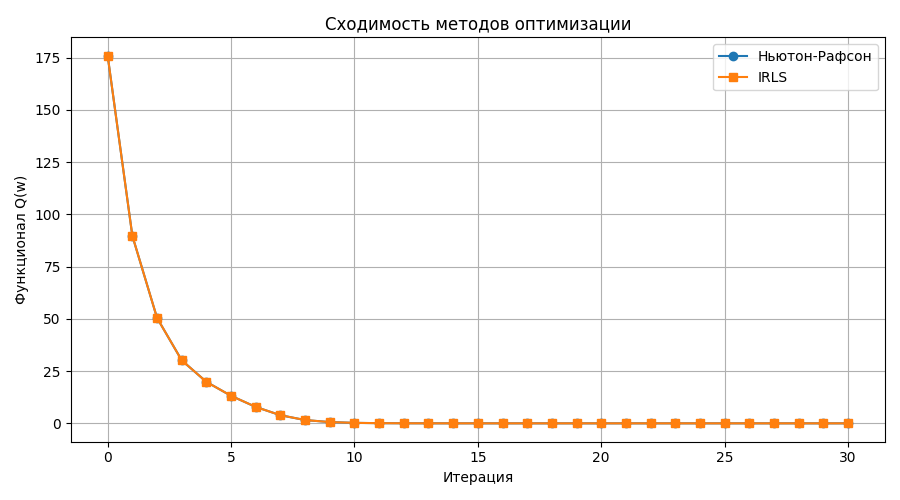
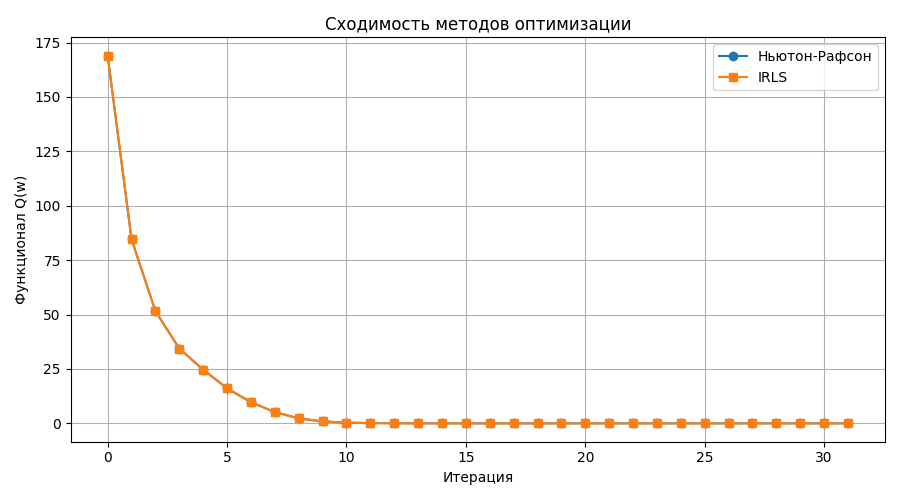
lab5: drop feature standardization, raw lecture F

diff --git a/students/dv-kachanov/lab5/source/main.py b/students/dv-kachanov/lab5/source/main.py
@@ -13,7 +13,6 @@ from sklearn.datasets import load_breast_cancer
 from sklearn.linear_model import LogisticRegression
 from sklearn.metrics import accuracy_score, precision_score, recall_score, f1_score
 from sklearn.model_selection import train_test_split
-from sklearn.preprocessing import StandardScaler
 
 from plots import plot_convergence, plot_probabilities
 
@@ -46,17 +45,13 @@ dataset = load_breast_cancer()
 X = dataset.data
 y01 = dataset.target
 
-X_train_raw, X_test_raw, y01_train, y01_test = train_test_split(
+F_train, F_test, y01_train, y01_test = train_test_split(
     X,
     y01,
     test_size=0.25,
     random_state=42,
     stratify=y01
 )
-
-scaler = StandardScaler()
-F_train = scaler.fit_transform(X_train_raw)
-F_test = scaler.transform(X_test_raw)
 
 # Метки датасета {0, 1} -> нотация лекции {-1, +1} (слайд 20).
 y_tilde_train = to_signed_labels(y01_train)
@@ -90,9 +85,9 @@ plot_convergence(newton_history, irls_history, OUTPUT_DIR / "convergence.png")
 # показать сопоставление с эталонной реализацией;
 
 reference_model = LogisticRegression(C=1.0, solver="lbfgs", tol=1e-8, max_iter=20000)
-reference_model.fit(X_train_raw, y01_train)
+reference_model.fit(F_train, y01_train)
 
-reference_pred = reference_model.predict(X_test_raw)
+reference_pred = reference_model.predict(F_test)
 own_pred = predict01(F_test, w_newton)
 own_pred_irls = predict01(F_test, w_irls)
 

diff --git a/students/dv-kachanov/lab5/README.md b/students/dv-kachanov/lab5/README.md
@@ -75,17 +75,7 @@ y_tilde_i = 2 * y_i - 1 in {-1, +1};
 |F_test| = 143 x 30.
 ```
 
-Разбиение стратифицировано по классам (`test_size=0.25`, `random_state=42`). Матрица данных `F` - это все 30 признаков датасета; bias-столбец и признак `f_0` отсутствуют: в лекции модель задана как `a(x, w) = sign(w^T x)` с `x, w in R^n` (слайд 6), свободного члена в постановке нет.
-
-## Предобработка
-
-Признаки стандартизируются:
-
-```text
-x'_j = (x_j - mean_j) / std_j.
-```
-
-`mean_j` и `std_j` считаются только по обучающей выборке. Затем те же значения применяются к тестовой выборке. Константный столбец НЕ добавляется (см. выше).
+Разбиение стратифицировано по классам (`test_size=0.25`, `random_state=42`). Матрица данных `F` - это все 30 признаков датасета без изменений; bias-столбец и признак `f_0` отсутствуют: в лекции модель задана как `a(x, w) = sign(w^T x)` с `x, w in R^n` (слайд 6), свободного члена в постановке нет. Предобработки признаков нет - в лекции её тоже нет, используется сырая матрица `F`.
 
 ## Логистическая регрессия
 
@@ -219,14 +209,14 @@ w := w + h_t (F_tilde^T F_tilde)^{-1} F_tilde^T y_work, h_t = 1.
 
 ```text
 Шаг h_t (оба метода): 1.0;
-Итераций Ньютона-Рафсона: 30;
-Итераций IRLS: 30;
-Функционал Q(w) (Ньютон-Рафсон): 4.950768591996609e-10;
-Функционал Q(w) (IRLS): 4.950768592003678e-10;
-Макс. отклонение весов: 7.666358214919455e-09.
+Итераций Ньютона-Рафсона: 31;
+Итераций IRLS: 31;
+Функционал Q(w) (Ньютон-Рафсон): 2.6372035110985796e-10;
+Функционал Q(w) (IRLS): 2.6372035108429415e-10;
+Макс. отклонение весов: 1.0303205272066407e-05.
 ```
 
-Начальное значение `Q(w)` (МНК-приближение) равно `175.87302545228815`. Одинаковое число итераций (30) подтверждает, что оба метода реализуют один и тот же шаг в разной записи; отклонение `7.7e-09` - уровень ошибок округления при норме весов около `2868.6` (обучающая выборка оказалась линейно разделимой в постановке без свободного члена и без регуляризации, поэтому веса растут, а `sigma_i -> 1`).
+Начальное значение `Q(w)` (МНК-приближение) равно `168.9620312029392`. Одинаковое число итераций (31) подтверждает, что оба метода реализуют один и тот же шаг в разной записи; отклонение `1.0e-05` - уровень ошибок округления при норме весов около `25664.9` (обучающая выборка оказалась линейно разделимой в постановке без свободного члена и без регуляризации, поэтому веса растут, а `sigma_i -> 1`).
 
 ### График сходимости
 
@@ -245,11 +235,11 @@ sklearn.linear_model.LogisticRegression
 с параметрами `C=1.0`, `tol=1e-8`. Честная оговорка: модели параметризованы по-разному, поэтому сравнение весов/вероятностей некорректно. Эталон оценивает свободный член (`intercept`) и L2-регуляризацию `C=1.0`; собственная реализация следует лекции буквально - свободного члена и регуляризации нет. Сравниваются только предсказания и метрики на тестовой выборке:
 
 ```text
-Доля совпадающих предсказаний (наш Ньютон vs sklearn): 0.916083916083916;
-Доля совпадающих предсказаний (наш IRLS vs sklearn): 0.916083916083916.
+Доля совпадающих предсказаний (наш Ньютон vs sklearn): 0.9230769230769231;
+Доля совпадающих предсказаний (наш IRLS vs sklearn): 0.9230769230769231.
 ```
 
-Расхождение объясняется именно различием постановок (наличие/отсутствие `intercept` и регуляризации), а не ошибкой реализации: оба наших метода совпадают друг с другом с точностью `7.7e-09` по весам.
+Расхождение объясняется именно различием постановок (наличие/отсутствие `intercept` и регуляризации), а не ошибкой реализации: оба наших метода совпадают друг с другом с точностью `1.0e-05` по весам.
 
 ## Оценка качества
 
@@ -264,17 +254,17 @@ sklearn.linear_model.LogisticRegression
 
 | Модель | Accuracy | Precision | Recall | F1 |
 |---|---:|---:|---:|---:|
-| Newton-Raphson | 0.916084 | 0.953488 | 0.911111 | 0.931818 |
-| IRLS | 0.916084 | 0.953488 | 0.911111 | 0.931818 |
+| Newton-Raphson | 0.909091 | 0.942529 | 0.911111 | 0.926554 |
+| IRLS | 0.909091 | 0.942529 | 0.911111 | 0.926554 |
 | sklearn LogisticRegression | 0.958042 | 0.946809 | 0.988889 | 0.967391 |
 
 Дополнительно:
 
 ```text
-Q(w) на обучающей выборке: 4.950768591996609e-10;
-Q(w) на тестовой выборке: 1069.3032872340996;
+Q(w) на обучающей выборке: 2.6372035110985796e-10;
+Q(w) на тестовой выборке: 857.3680026424473;
 Доля верных знаков (train): 1.0;
-Доля верных знаков (test): 0.916083916083916.
+Доля верных знаков (test): 0.9090909090909091.
 ```
 
 Большое `Q(w)` на тесте при почти нулевом на обучении - следствие отсутствия регуляризации: несколько тестовых объектов лежат далеко по неверную сторону границы при огромной норме весов.
@@ -287,11 +277,11 @@ Q(w) на тестовой выборке: 1069.3032872340996;
 
 ## Анализ результатов
 
-Метод Ньютона-Рафсона и `IRLS` сошлись к одному минимуму за 30 итераций с отклонением весов `7.7e-09`. Это ожидаемо: для логистической модели слайдов 6-9 `IRLS` и Ньютон-Рафсон - один и тот же алгоритм в разной записи.
+Метод Ньютона-Рафсона и `IRLS` сошлись к одному минимуму за 31 итерацию с отклонением весов `1.0e-05`. Это ожидаемо: для логистической модели слайдов 6-9 `IRLS` и Ньютон-Рафсон - один и тот же алгоритм в разной записи.
 
-Сопоставление со `sklearn LogisticRegression` честно ограничено предсказаниями/метриками (`0.916` совпадения предсказаний, `Accuracy 0.916084` против `0.958042`), поскольку эталон содержит свободный член и L2-регуляризацию, которых нет в лекционной постановке.
+Сопоставление со `sklearn LogisticRegression` честно ограничено предсказаниями/метриками (`0.923` совпадения предсказаний, `Accuracy 0.909091` против `0.958042`), поскольку эталон содержит свободный член и L2-регуляризацию, которых нет в лекционной постановке.
 
-Отсутствие регуляризации приводит к норме весов около `2868.6` и стопроцентному разделению обучающей выборки - платой за буквальное следование лекции.
+Отсутствие регуляризации приводит к норме весов около `25664.9` и стопроцентному разделению обучающей выборки - платой за буквальное следование лекции.
 
 ## Соответствие пунктам задания
 
@@ -301,7 +291,7 @@ Q(w) на тестовой выборке: 1069.3032872340996;
 | Реализовать вычисление градиента через автоград | `autograd_gradient`, `Tensor` из первой лабы |
 | Реализовать логистическую регрессию методом Ньютона-Рафсона | `newton_raphson` (слайд 7, `h_t = 1`) |
 | Реализовать логистическую регрессию методом IRLS | `irls` (слайды 8-9, `D`/`F_tilde`/`y_work`, `h_t = 1`) |
-| Показать эквивалентность методов между собой | отклонение весов `7.7e-09`, `convergence.png` |
+| Показать эквивалентность методов между собой | отклонение весов `1.0e-05`, `convergence.png` |
 | Показать сопоставление с эталонной реализацией | `sklearn LogisticRegression`, итоговая таблица (предсказания/метрики) |
 | Визуализировать вероятности | `probabilities.png` (`sigma_i`) |
 | Подготовить отчет | данный `README.md` |
@@ -325,7 +315,7 @@ predict(p >= 0.5) -> decision = sign(w^T x); predict01 - лишь перевод
 
 ## Оставшиеся отступления от лекции
 
-Вырожденные линейные системы решаются через `lstsq`/`pinv`, деления на `sigma_i` защищены floor `1e-12` - это чисто численные приёмы решения, постановка `Q(w)` не менялась. Допуск останова `tol = 1e-10` и стандартизация признаков - вне текста лекции, на постановку не влияют.
+Вырожденные линейные системы решаются через `lstsq`/`pinv`, деления на `sigma_i` защищены floor `1e-12` - это чисто численные приёмы решения, постановка `Q(w)` не менялась. Допуск останова `tol = 1e-10` - вне текста лекции, на постановку не влияет.
 
 ## Вывод
 
